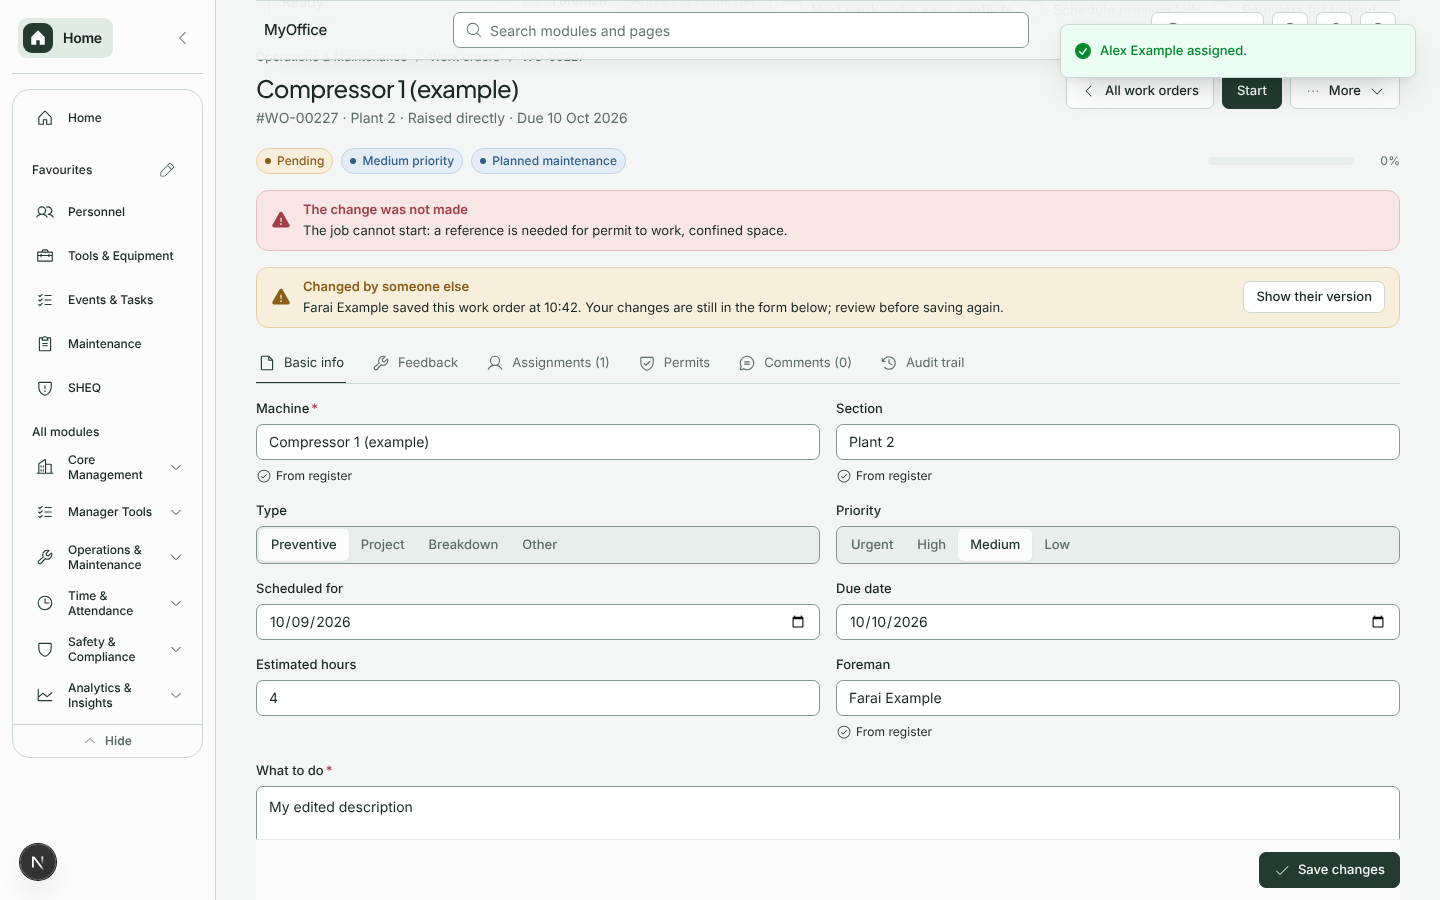
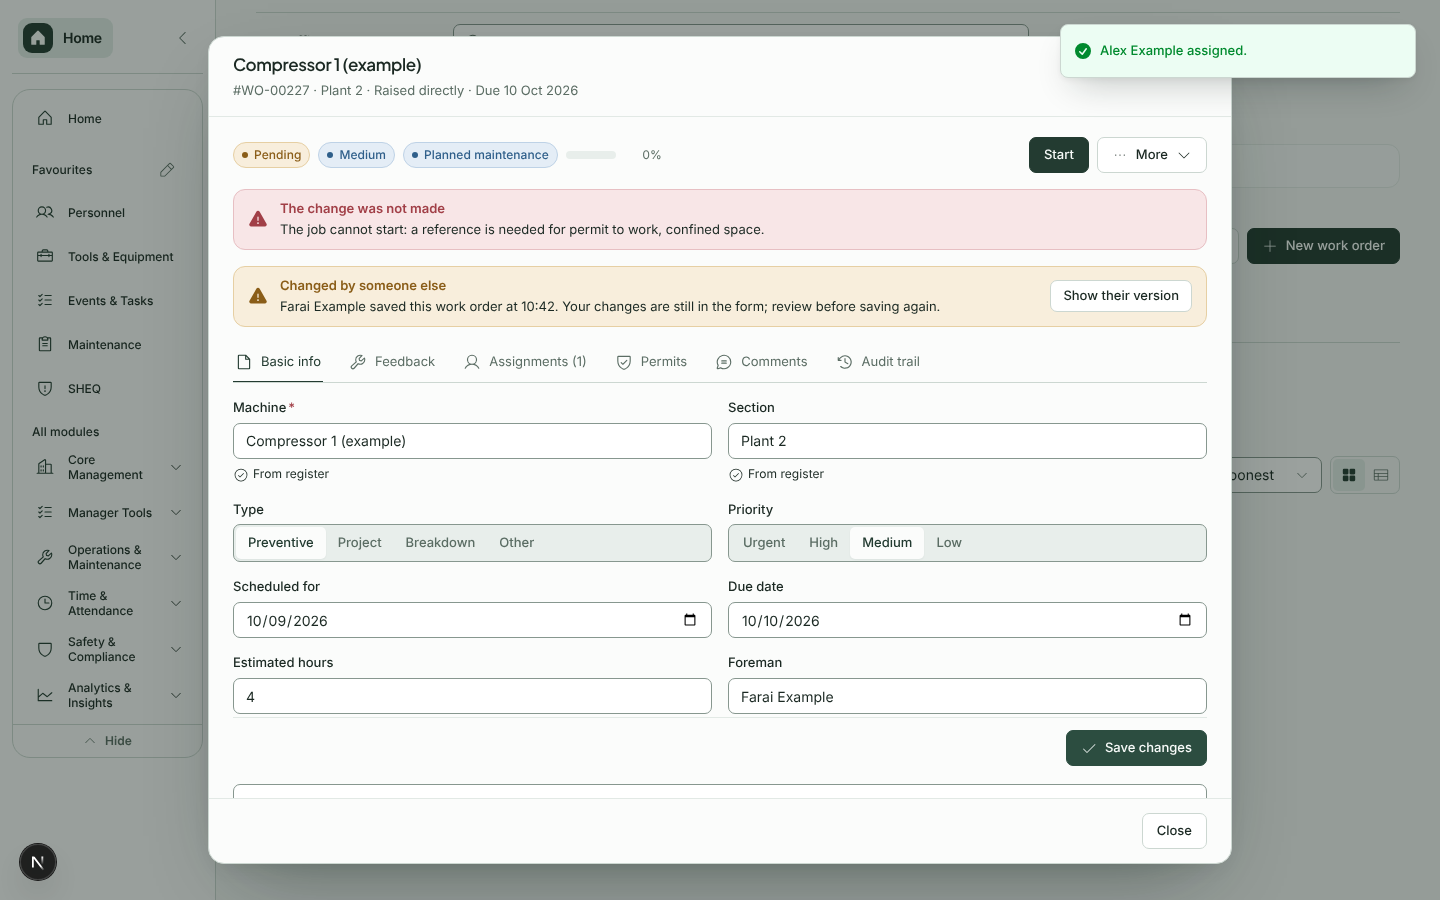
Prototype: work order record as a pop-up; quieter list and prototype chrome
Claude-Session: https://claude.ai/code/session_019FS4yUh8NwLGQHQXBbbWbX

diff --git a/app/maintenance/WorkOrderRecordView.tsx b/app/maintenance/WorkOrderRecordView.tsx
@@ -6,7 +6,7 @@
 
 import { useState } from 'react';
 import {
-  Button, DataTable, EmptyState, Field, FormDialog, Input, MoreMenu, Notice, PageHeader, Progress, Segmented, StatusBadge, Tabs, TabsContent, TabsList, TabsTrigger, Textarea, Checkbox,
+  Button, DataTable, Dialog, EmptyState, Field, FormDialog, Input, MoreMenu, Notice, Progress, Segmented, StatusBadge, Tabs, TabsContent, TabsList, TabsTrigger, Textarea, Checkbox,
   type Column,
 } from '@/components/ui-system';
 import { RegisterField, type RegisterLoad, type RegisterOption } from '@/components/shared/RegisterField';
@@ -71,44 +71,40 @@ export function WorkOrderRecordView({ order, role, onBack, onTransition, onSave,
   const more = order.allowed_transitions.filter(t => !direct.includes(t));
 
   return (
+    <Dialog
+      open onOpenChange={o => { if (!o) onBack(); }} size="xl" title={order.machine.text}
+      description={[`#${order.number}`, order.section.text, source, order.due_date ? `Due ${fmtDate(order.due_date)}` : ''].filter(Boolean).join(' · ')}
+      footer={<Button onClick={onBack}>Close</Button>}
+    >
     <div className="flex flex-col gap-4">
-      <PageHeader
-        breadcrumbs={[{ label: 'Operations & Maintenance' }, { label: 'Work orders' }, { label: order.number }]}
-        title={order.machine.text}
-        description={[`#${order.number}`, order.section.text, source, `Due ${order.due_date ? fmtDate(order.due_date) : 'not set'}`].filter(Boolean).join(' · ')}
-        actions={(
-          <>
-            <Button icon="chevron-left" onClick={onBack}>All work orders</Button>
-            {direct.map(t => <Button key={t} variant="primary" pending={busy} onClick={() => void begin(t)}>{actionLabel(order.status, t)}</Button>)}
-            {manager && order.awaiting_signoff && <Button variant="primary" icon="check" onClick={() => { setSignoffSig(''); setSignoffOpen(true); }}>Sign off</Button>}
-            <MoreMenu items={[...more.map(t => ({ label: actionLabel(order.status, t), onSelect: () => void begin(t) })), { label: 'Print', icon: 'print' as const, onSelect: () => window.print() }]} />
-          </>
-        )}
-      />
       <div className="flex flex-wrap items-center gap-2">
         <StatusBadge tone={status.tone}>{status.label}</StatusBadge>
-        <StatusBadge tone={priorityMeta(order.priority).tone}>{priorityMeta(order.priority).label} priority</StatusBadge>
+        <StatusBadge tone={priorityMeta(order.priority).tone}>{priorityMeta(order.priority).label}</StatusBadge>
         {classificationLabel(order) && <StatusBadge tone="info">{classificationLabel(order)}</StatusBadge>}
-        {order.awaiting_signoff && <StatusBadge tone="warning">Awaiting sign-off</StatusBadge>}
-        <div className="ml-auto w-full max-w-48"><Progress value={order.progress} label={`Progress on ${order.machine.text}`} /></div>
+        <div className="w-24"><Progress value={order.progress} label={`Progress on ${order.machine.text}`} /></div>
+        <span className="ml-auto flex flex-wrap items-center gap-2">
+          {direct.map(t => <Button key={t} variant="primary" pending={busy} onClick={() => void begin(t)}>{actionLabel(order.status, t)}</Button>)}
+          {manager && order.awaiting_signoff && <Button variant="primary" icon="check" onClick={() => { setSignoffSig(''); setSignoffOpen(true); }}>Sign off</Button>}
+          <MoreMenu items={[...more.map(t => ({ label: actionLabel(order.status, t), onSelect: () => void begin(t) })), { label: 'Print', icon: 'print' as const, onSelect: () => window.print() }]} />
+        </span>
       </div>
 
       {actionError && <Notice tone="danger" icon="warning" title="The change was not made">{actionError}</Notice>}
       {conflict && (
         <Notice tone="warning" icon="warning" title="Changed by someone else" action={<Button size="sm" onClick={onReloadConflict}>Show their version</Button>}>
-          {conflict.who} saved this work order at {conflict.at}. Your changes are still in the form below; review before saving again.
+          {conflict.who} saved this work order at {conflict.at}. Your changes are still in the form; review before saving again.
         </Notice>
       )}
       {order.assignee_now_on_leave && <Notice tone="warning" icon="calendar" title="The assigned person is now on leave">{order.assignee.text} has approved leave on the planned day. Assign someone else.</Notice>}
-      {order.awaiting_signoff && <Notice tone="info" icon="check" title="Completed, awaiting foreman sign-off">The job is done and signed by the artisan. {manager ? 'Use Sign off when you have checked it.' : 'A foreman has to sign it off.'}</Notice>}
+      {order.awaiting_signoff && !manager && <Notice tone="info" icon="check" title="Completed, awaiting foreman sign-off">A foreman has to sign it off.</Notice>}
 
       <Tabs value={tab} onValueChange={setTab}>
         <TabsList aria-label="Work order sections">
           <TabsTrigger value="basic" icon="documents">Basic info</TabsTrigger>
           <TabsTrigger value="feedback" icon="wrench">Feedback</TabsTrigger>
-          <TabsTrigger value="assign" icon="user">Assignments ({order.assignments.length})</TabsTrigger>
+          <TabsTrigger value="assign" icon="user">Assignments{order.assignments.length ? ` (${order.assignments.length})` : ''}</TabsTrigger>
           <TabsTrigger value="permits" icon="shield">Permits</TabsTrigger>
-          <TabsTrigger value="comments" icon="chat">Comments ({order.comments.length})</TabsTrigger>
+          <TabsTrigger value="comments" icon="chat">Comments{order.comments.length ? ` (${order.comments.length})` : ''}</TabsTrigger>
           <TabsTrigger value="audit" icon="history">Audit trail</TabsTrigger>
         </TabsList>
         <TabsContent value="basic" className="mt-4"><BasicTab key={`${order.id}-${order.version}`} order={order} manager={manager} onSave={onSave} machines={machines} people={people} sections={sections} /></TabsContent>
@@ -138,6 +134,7 @@ export function WorkOrderRecordView({ order, role, onBack, onTransition, onSave,
         <Field label="Foreman signature" required><SignOffField label="Foreman signature" signerName={order.foreman.text} value={signoffSig} onChange={setSignoffSig} /></Field>
       </FormDialog>
     </div>
+    </Dialog>
   );
 }
 

diff --git a/app/maintenance-prototype/page.tsx b/app/maintenance-prototype/page.tsx
@@ -8,7 +8,7 @@
 import { useCallback, useMemo, useState } from 'react';
 import { toast } from 'sonner';
 import { AppShell } from '@/components/app-shell';
-import { Button, Checkbox, Notice, PageHeader, Segmented, Select, Tabs, TabsContent, TabsList, TabsTrigger, deriveDataStatus, isTransientStatus, pageSlice } from '@/components/ui-system';
+import { Button, Checkbox, PageHeader, StatusLine, Segmented, Select, Tabs, TabsContent, TabsList, TabsTrigger, deriveDataStatus, isTransientStatus, pageSlice } from '@/components/ui-system';
 import type { RegisterOption, RegisterRef } from '@/components/shared/RegisterField';
 import { AssignmentPicker, personOption, type AssignInput } from '../maintenance/AssignmentPicker';
 import { QuickWorkOrderForm, type QuickInput } from '../maintenance/QuickWorkOrderForm';
@@ -142,8 +142,8 @@ function Prototype() {
   const hdr = recordId === null ? 'Work orders' : 'Work order';
   return (
     <div className="flex flex-col gap-4">
-      <Notice tone="info" icon="info" title="Prototype: example data, nothing is saved">Every machine, person and record here is invented. Use the switchers to see each state. This page is for review only and is not part of the navigation.</Notice>
-      <details open className="rounded-card border border-line-subtle bg-surface-subtle p-3">
+      <StatusLine tone="info"><strong className="font-medium text-ink">Prototype with example data.</strong> Nothing is saved. Open the controls below to force each state.</StatusLine>
+      <details className="rounded-card border border-line-subtle bg-surface-subtle p-3">
         <summary className="cursor-pointer font-sans text-label font-semibold text-ink">Prototype controls (not part of the product)</summary>
       <div className="mt-3 flex flex-wrap items-end gap-3" role="group" aria-label="Prototype controls">
         <label className="flex flex-col gap-1 font-sans text-caption text-ink-muted">Data state<Select aria-label="Data state" className="w-64" value={scenario} onValueChange={v => { setScenario(v as Scenario); setPage(1); }} options={SCENARIOS} /></label>
@@ -154,17 +154,7 @@ function Prototype() {
       </div>
       </details>
 
-      {record ? (
-        <WorkOrderRecordView
-          order={{ ...record, allowed_transitions: allowedTransitions(record.status, role) }} role={role} onBack={() => { setRecordId(null); setConflict(null); }}
-          onTransition={t => transition(record, t)} onSave={p => saveOrder(record, p)} conflict={conflict} onReloadConflict={() => setConflict(null)}
-          onSignoff={async sig => { await wait(); patchOrder(record.id, x => withEvent(x, 'Foreman sign-off', { awaiting_signoff: false }, !!sig)); toast.success('Signed off.'); }}
-          onAssign={() => setAssignFor([record])} onRemoveAssignment={async a => { patchOrder(record.id, x => withEvent(x, `Removed assignment of ${a.person.text}`, { assignments: x.assignments.filter(y => y.id !== a.id) })); }}
-          onComment={async body => { await wait(200); patchOrder(record.id, x => ({ ...x, comments: [...x.comments, { id: x.comments.length + 1, at: stamp(), who: ME.text, body }] })); }}
-          machines={machineOptions} people={peopleOptions} sections={SECTION_OPTIONS}
-        />
-      ) : (
-        <>
+      <>
           <PageHeader breadcrumbs={[{ label: 'Operations & Maintenance' }, { label: hdr }]} title="Work orders" description="Raise a job, follow it to completion, and plan the recurring ones."
             actions={(<>{tab === 'schedules' ? <Button variant="primary" icon="plus" onClick={() => setScheduleOpen(true)}>New schedule</Button> : tab === 'requests' ? <Button variant="primary" icon="plus" onClick={() => setRequestOpen(true)}>Request work</Button> : <><Button icon="breakdown" onClick={() => setQuick('breakdown')}>Breakdown</Button><Button variant="primary" icon="plus" onClick={() => setQuick('quick')}>New work order</Button></>}</>)} />
           <Tabs value={tab} onValueChange={setTab}>
@@ -191,7 +181,16 @@ function Prototype() {
             </TabsContent>
             <TabsContent value="schedules" className="mt-4"><p className="font-sans text-body-sm text-ink-muted">Schedules are listed here once saved. Use New schedule to review the form and its preview; nothing is stored in the prototype.</p></TabsContent>
           </Tabs>
-        </>
+      </>
+      {record && (
+        <WorkOrderRecordView
+          order={{ ...record, allowed_transitions: allowedTransitions(record.status, role) }} role={role} onBack={() => { setRecordId(null); setConflict(null); }}
+          onTransition={t => transition(record, t)} onSave={p => saveOrder(record, p)} conflict={conflict} onReloadConflict={() => setConflict(null)}
+          onSignoff={async sig => { await wait(); patchOrder(record.id, x => withEvent(x, 'Foreman sign-off', { awaiting_signoff: false }, !!sig)); toast.success('Signed off.'); }}
+          onAssign={() => setAssignFor([record])} onRemoveAssignment={async a => { patchOrder(record.id, x => withEvent(x, `Removed assignment of ${a.person.text}`, { assignments: x.assignments.filter(y => y.id !== a.id) })); }}
+          onComment={async body => { await wait(200); patchOrder(record.id, x => ({ ...x, comments: [...x.comments, { id: x.comments.length + 1, at: stamp(), who: ME.text, body }] })); }}
+          machines={machineOptions} people={peopleOptions} sections={SECTION_OPTIONS}
+        />
       )}
 
       <QuickWorkOrderForm open={quick !== null} onOpenChange={o => { if (!o) setQuick(null); }} preset={quick === 'breakdown' ? 'breakdown' : undefined} machines={machineOptions} machinesLoad={load} onRetryMachines={() => setRegisterFails(false)} onCreate={createQuick} />

diff --git a/app/maintenance/WorkOrderListView.tsx b/app/maintenance/WorkOrderListView.tsx
@@ -42,6 +42,7 @@ export function WorkOrderListView({ items, total, counts, status, error, onRetry
       <StatusBadge tone={statusMeta(o.status).tone}>{statusMeta(o.status).label}</StatusBadge>
       {isOverdueFlow(o) && <StatusBadge tone="danger">Overdue</StatusBadge>}
       {o.awaiting_signoff && <StatusBadge tone="info">Awaiting sign-off</StatusBadge>}
+      {(o.priority === 'urgent' || o.priority === 'high') && <StatusBadge tone={priorityMeta(o.priority).tone}>{priorityMeta(o.priority).label}</StatusBadge>}
     </>
   );
   const assigneeText = (o: FlowOrder) => o.assignee.text
@@ -75,8 +76,7 @@ export function WorkOrderListView({ items, total, counts, status, error, onRetry
       </MetricGrid>
 
       <div role="group" aria-label="Saved views" className="flex flex-wrap items-center gap-1.5">
-        <span className="font-sans text-caption text-ink-muted">Views:</span>
-        {views.map(v => {
+                {views.map(v => {
           const on = JSON.stringify(v.filters) === JSON.stringify(filters);
           return (
             <span key={v.id} className="inline-flex items-center gap-0.5">
@@ -94,13 +94,9 @@ export function WorkOrderListView({ items, total, counts, status, error, onRetry
       >
         <SearchField value={filters.search} onValueChange={search => set({ search })} placeholder="Search machine, number or person" wrapperClassName="min-w-48 max-w-sm flex-1 max-md:max-w-none max-md:basis-full" />
         <Select aria-label="Type" className="w-40" value={filters.classification} onValueChange={v => set({ classification: v as FlowFilters['classification'] })} options={CLASSES} />
+        <Select aria-label="Priority" className="w-36" value={filters.priorities.length === 1 ? filters.priorities[0] : 'all'} onValueChange={v => set({ priorities: v === 'all' ? [] : [v as WorkOrderPriority] })} options={[{ value: 'all', label: 'Any priority' }, ...(Object.keys(PRIORITY) as WorkOrderPriority[]).map(value => ({ value, label: PRIORITY[value].label }))]} />
         <Select aria-label="Assignee" className="w-40" value={filters.assignee} onValueChange={v => set({ assignee: v as FlowFilters['assignee'] })} options={[{ value: 'all', label: 'Anyone' }, { value: 'me', label: 'Assigned to me' }, { value: 'unassigned', label: 'Unassigned' }]} />
       </Toolbar>
-      <div role="group" aria-label="Filter by priority" className="flex flex-wrap items-center gap-1.5">
-        <span className="font-sans text-caption text-ink-muted">Priority:</span>
-        {(Object.keys(PRIORITY) as WorkOrderPriority[]).map(p => { const on = filters.priorities.includes(p); return <Button key={p} size="sm" variant={on ? 'primary' : 'secondary'} aria-pressed={on} onClick={() => set({ priorities: on ? filters.priorities.filter(x => x !== p) : [...filters.priorities, p] })}>{PRIORITY[p].label}</Button>; })}
-      </div>
-
       {view === 'table' && selected.size > 0 && (
         <div className="flex flex-wrap items-center gap-2 rounded-control border border-line bg-action-soft/50 px-4 py-2.5" role="region" aria-label="Bulk actions">
           <span className="font-sans text-label font-semibold text-ink">{selected.size} selected</span>
@@ -122,7 +118,7 @@ export function WorkOrderListView({ items, total, counts, status, error, onRetry
               <li key={o.id} className="relative">
                 <RecordCard
                   eyebrow={`#${o.number}`} title={o.machine.text} subtitle={o.description} openLabel={`Open work order ${o.number}, ${o.machine.text}`} onOpen={() => onOpen(o)} status={badges(o)}
-                  facts={[{ label: 'Assigned', value: o.assignee.text || (o.needs_assignment ? 'Needs assignment' : 'Unassigned') }, { label: 'Priority', value: priorityMeta(o.priority).label }, ...(o.due_date ? [{ label: 'Due', value: fmtDate(o.due_date) }] : [])]}
+                  facts={[{ label: 'Assigned', value: o.assignee.text || (o.needs_assignment ? 'Needs assignment' : 'Unassigned') }, ...(o.due_date ? [{ label: 'Due', value: fmtDate(o.due_date) }] : [])]}
                   meta={<div className="w-full min-w-40"><Progress value={o.progress} label={`${o.machine.text} progress`} /></div>}
                 />
               </li>

diff --git a/docs/plans/maintenance-prototype.md b/docs/plans/maintenance-prototype.md
@@ -23,7 +23,7 @@ At the top of the page, **Prototype controls** force each state: data state (rea
 | Assign someone, with people on leave greyed and the reason shown | `AssignmentPicker` | R7, R8 |
 | Work order list: stat strip as filters, saved views, filters, bulk bar, cards or table, paging, every data state | `WorkOrderListView`, `savedViews.ts` | R1, R2, R35 |
 | Quick and breakdown work order, four fields, retry-safe | `QuickWorkOrderForm` | R4, R5, R37 |
-| Work order record with tabs (Basic info, Feedback, Assignments, Permits, Comments, Audit trail), status actions, sign-off, conflict banner | `WorkOrderRecordView` | R3, R6, R9, R10, R11, R13, R14 |
+| Work order record as a **pop-up over the list** (owner's feedback, 6 Oct) with tabs (Basic info, Feedback, Assignments, Permits, Comments, Audit trail), status actions, sign-off, conflict banner | `WorkOrderRecordView` | R3, R6, R9, R10, R11, R13, R14 |
 | Request form, request inbox, review with signature, reject with reason | `RequestForm`, `RequestInboxView` | R15 to R20 |
 | Schedule with many machines and a preview of the next occurrences | `ScheduleFlowForm` | R21 to R24 |
 
@@ -66,5 +66,10 @@ Not prototyped (as the plan said): the scheduler board and the KPI board (round 
 
 1. Is the register-first Tab behaviour right (ghost text only for an available person, unavailable people listed greyed)?
 2. Cards or table as the list default on a desktop (the existing page defaults to cards; the plan's wireframe drew a table)?
-3. Should the record be a page (`/maintenance/[id]`) as planned, or stay a dialog as today?
+3. The record is now a pop-up, as you asked. This replaces the plan's full page `/maintenance/[id]`; a phone may still want a full page, so say if the pop-up should become a full-height sheet there.
 4. Round 2: prototype the scheduler board and KPI board before building, or build the work order, request and schedule slices first?
+
+## Changes after the first review (6 Oct 2026)
+
+- The work order record opens as a pop-up over the list instead of replacing the page.
+- Less noise: the prototype banner is one line and the controls are collapsed by default; the priority chips became one "Any priority" filter beside type and assignee; the card no longer repeats priority (only High and Urgent show a badge); tab counts show only when above zero; the record's header lost its breadcrumb and large title.
